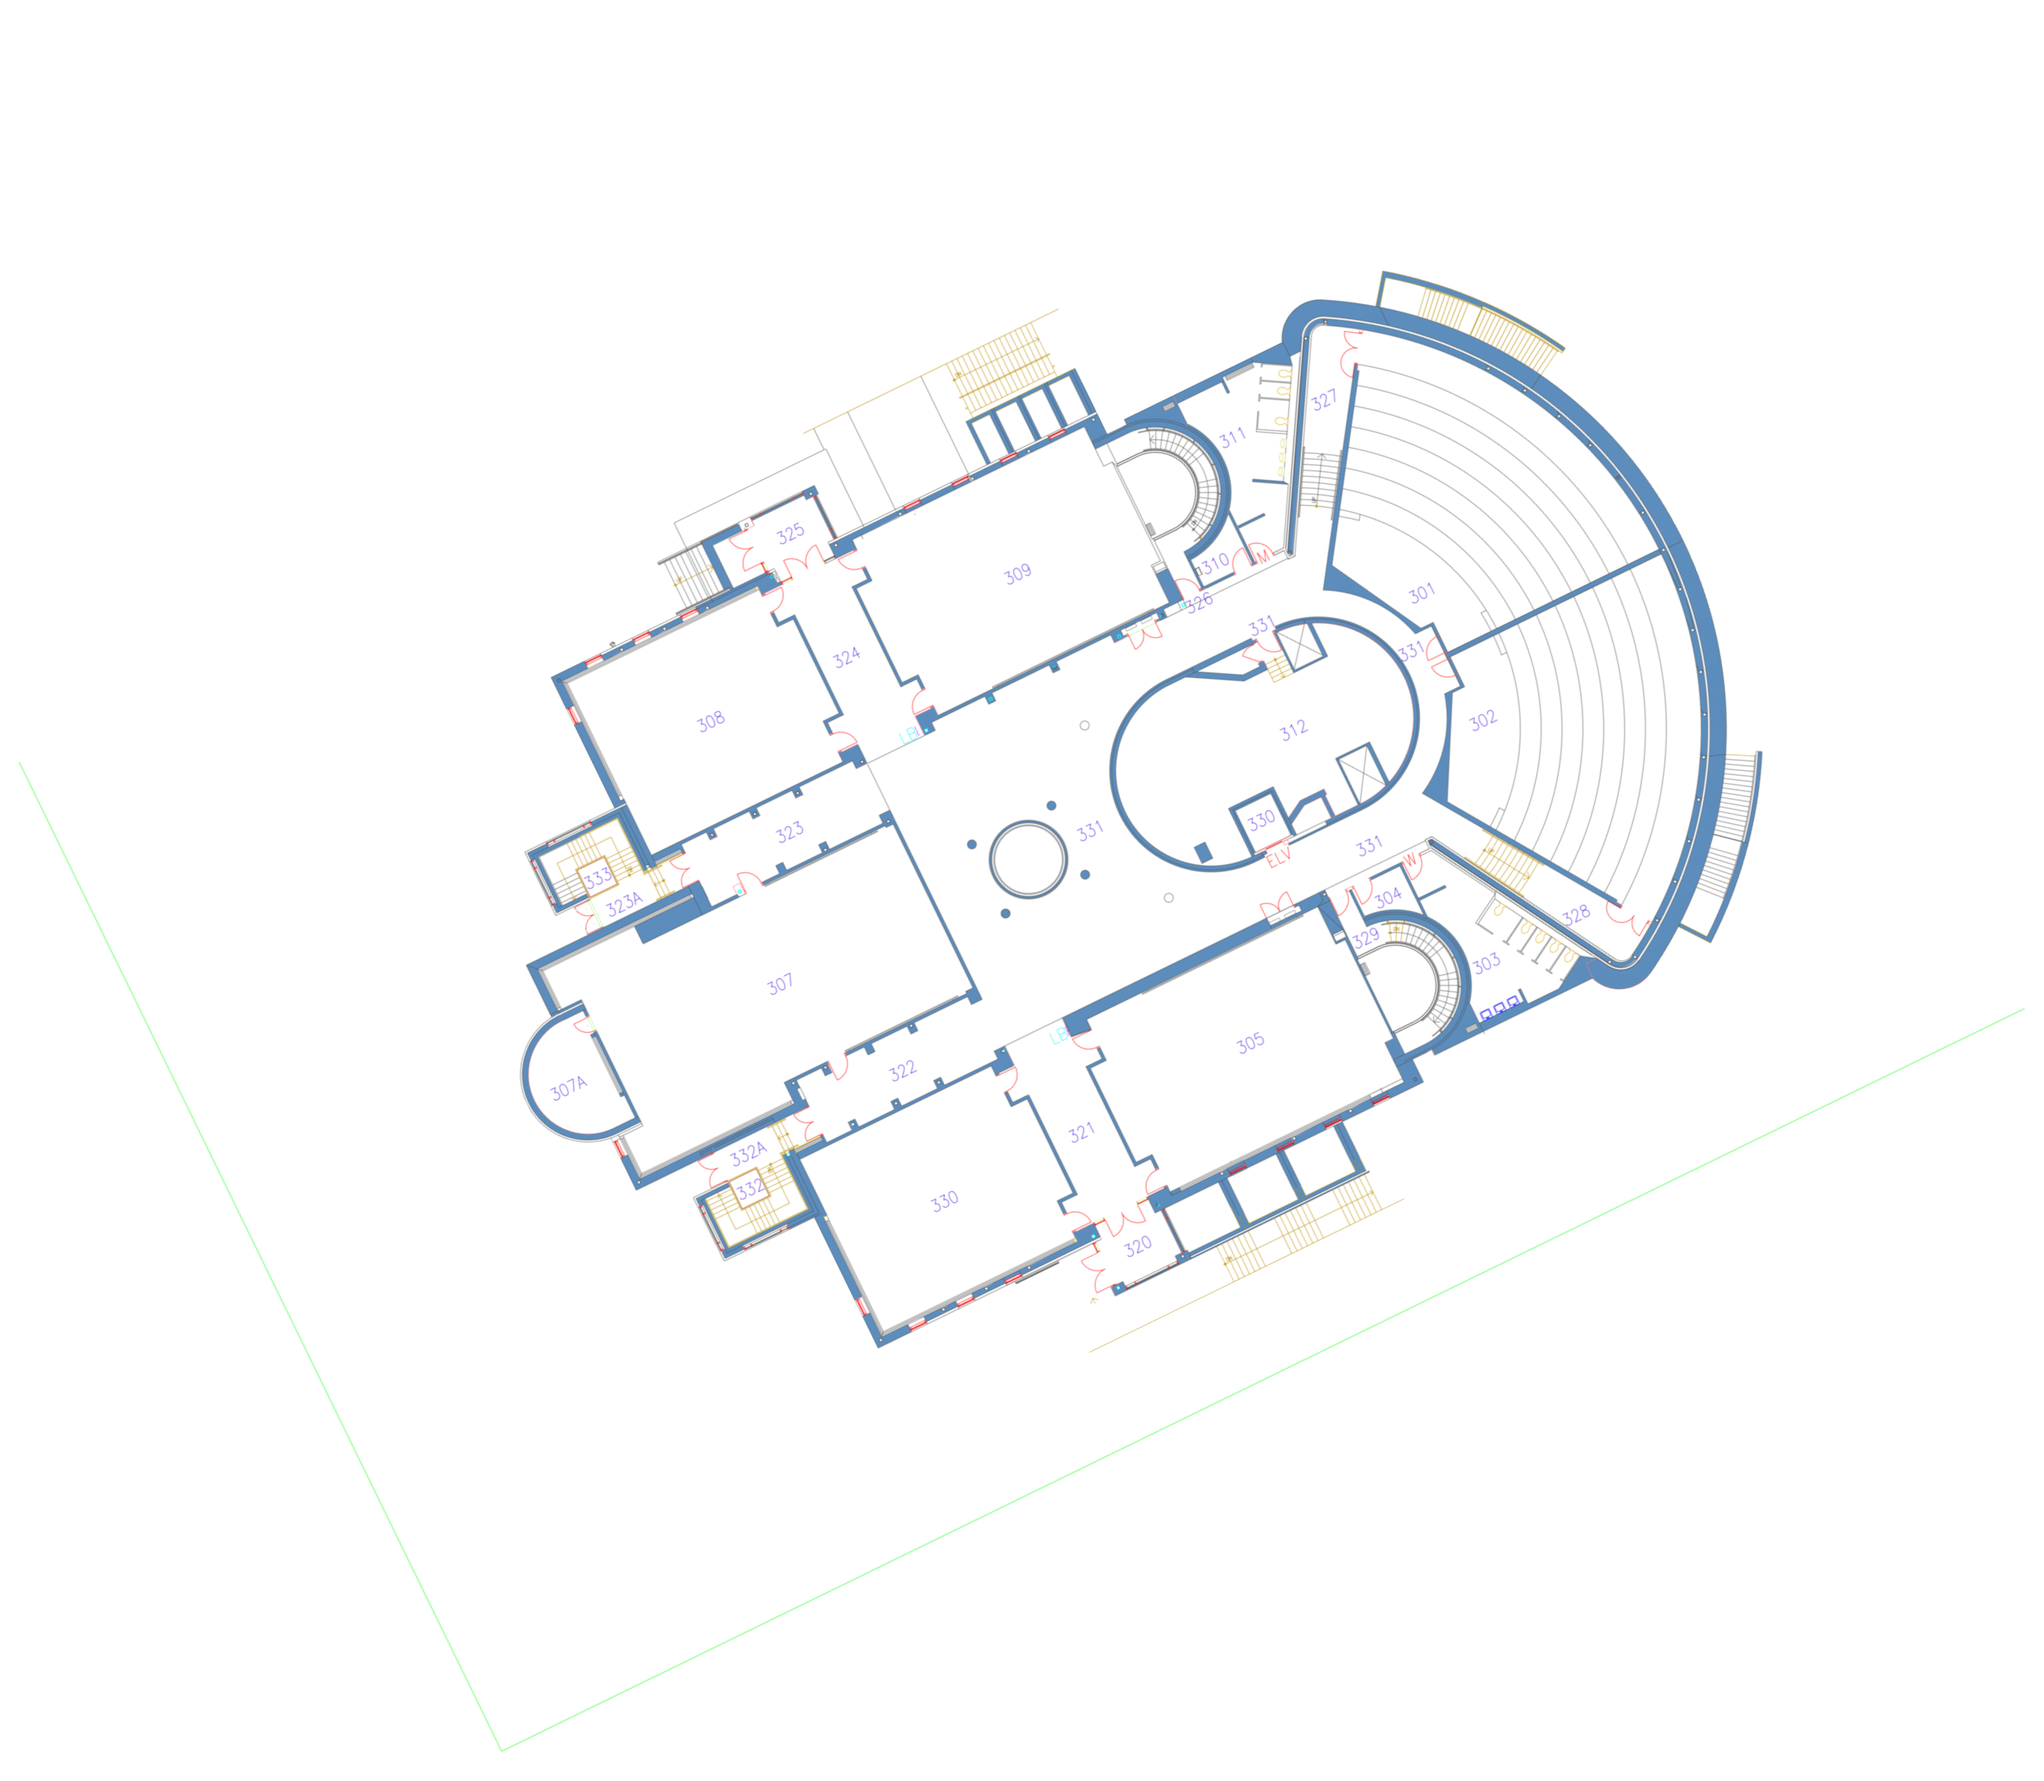
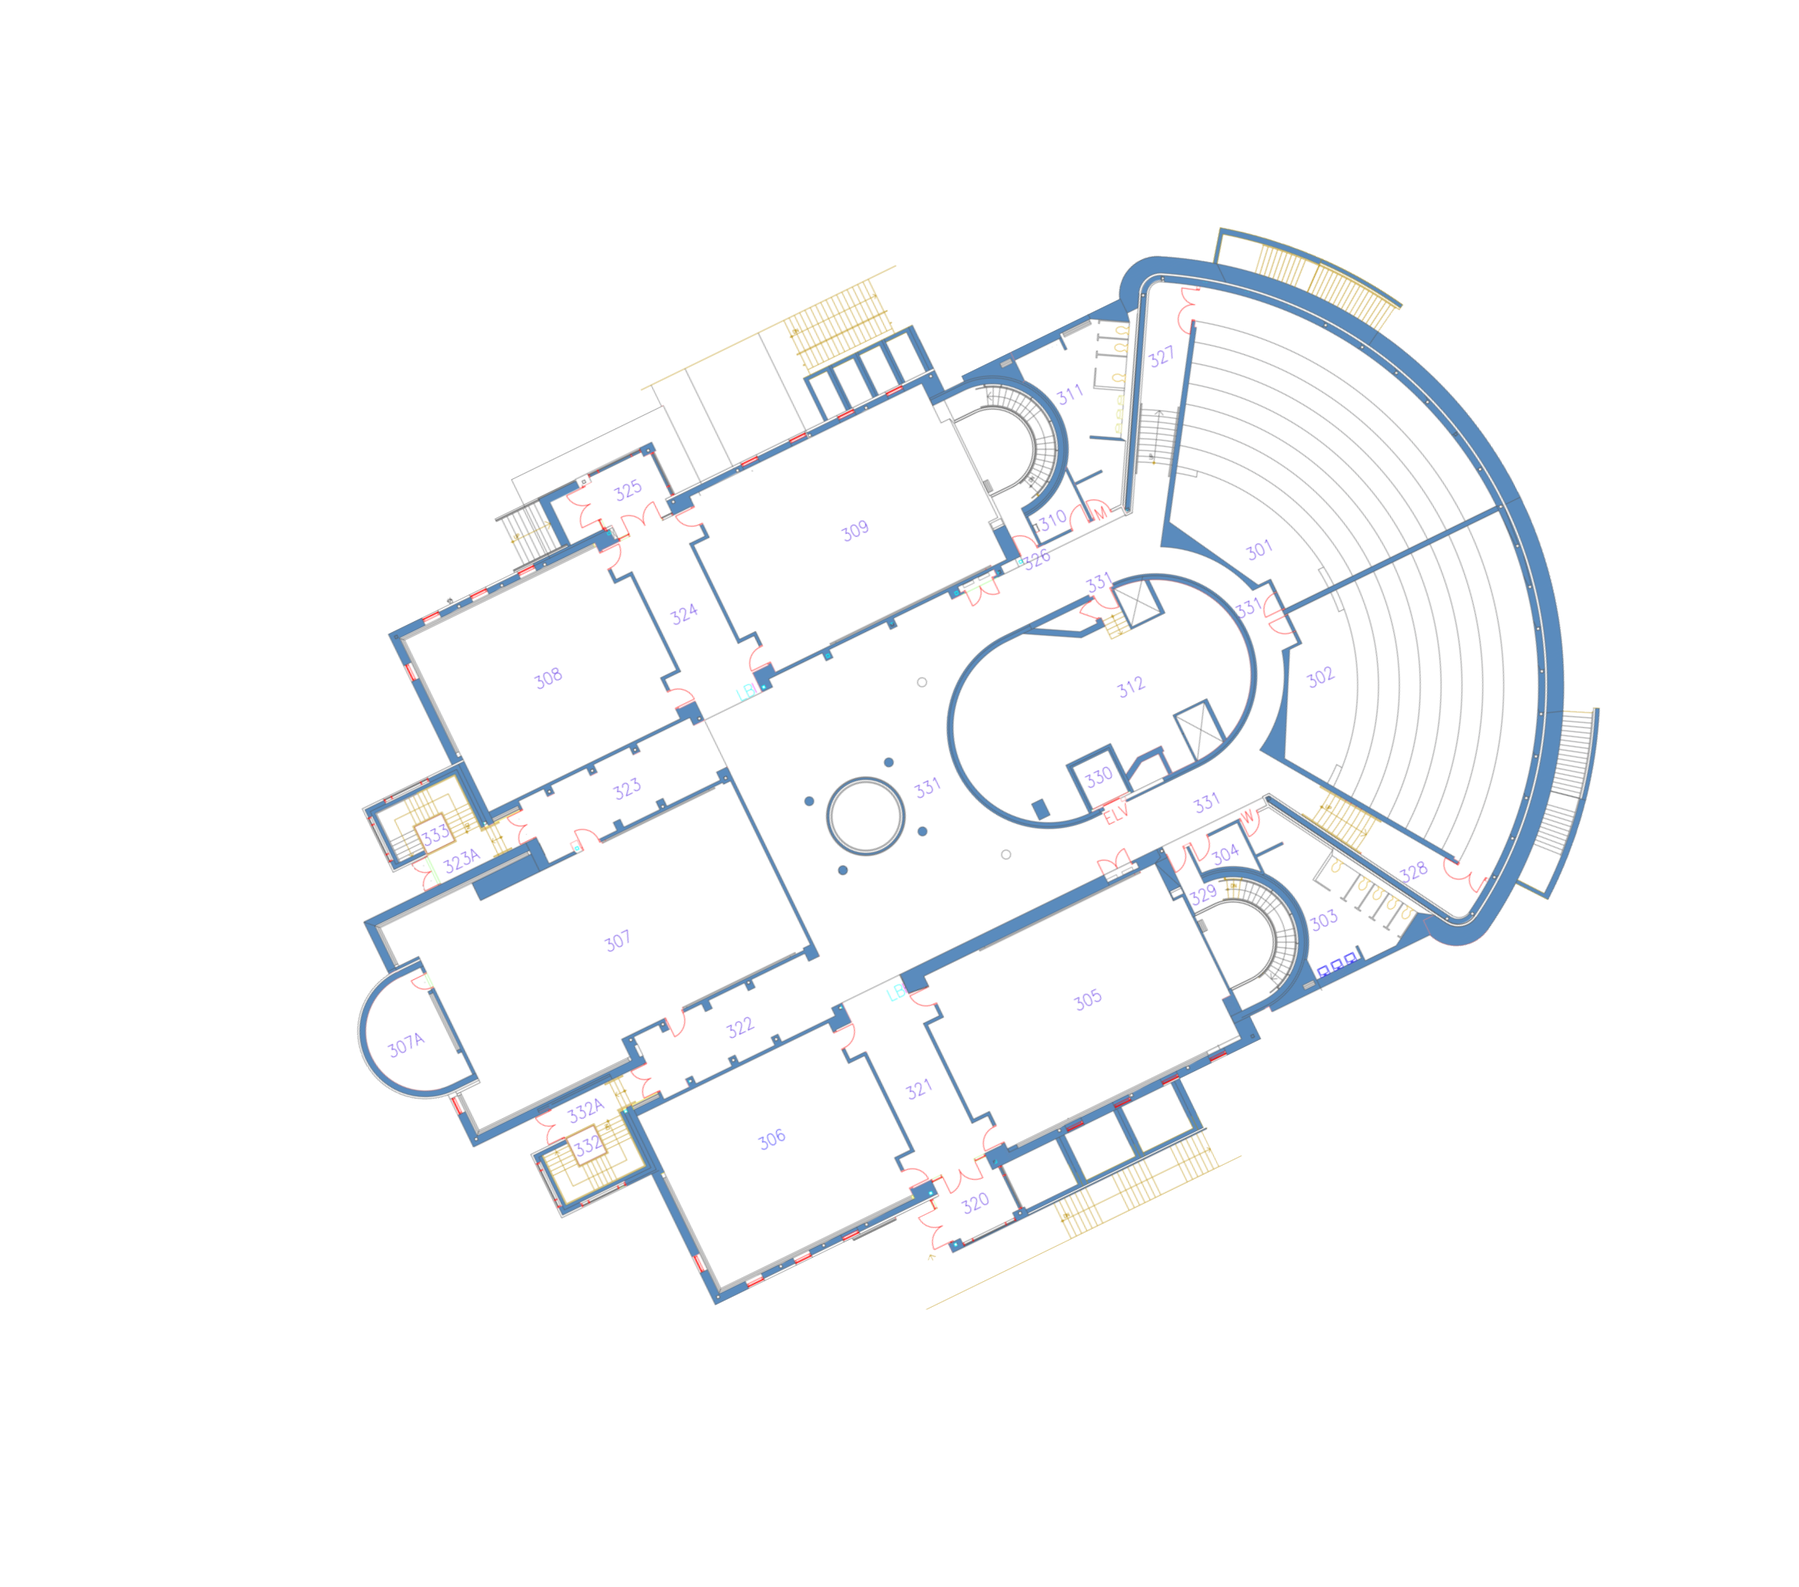
RCH3rd floor image overlay redone

Changed region(s): [[0.1873, 0.1239, 0.9055, 0.8363]]

diff --git a/client/temp_files/GoogleImageOverlay/UseThis_ImageOverlay.html b/client/temp_files/GoogleImageOverlay/UseThis_ImageOverlay.html
@@ -35,14 +35,14 @@
 
       //RCH 1st floor: sw(43.46999349599889, -80.54125972520075) ne(43.47064191555473, -80.54024546130745)
       //RCH 2nd floor: sw(43.469956511113, -80.54128386508188) ne(43.47063996900324, -80.5402374146804)
-      //RCH3rd floor: sw(43.4698708618167, -80.54143540989122) ne(43.470660407790774, -80.54018645270912)
+      //RCH3rd floor: sw(43.46993509880034, -80.54134957920274) ne(43.47064483538184, -80.54022668584435)
 
-      var swBound = new google.maps.LatLng(43.4699526179658, -80.54126777182773);
-      var neBound = new google.maps.LatLng(43.47062439658903, -80.54022132142632);
+      var swBound = new google.maps.LatLng(43.4698708618167, -80.54143540989122);
+      var neBound = new google.maps.LatLng(43.470660407790774, -80.54018645270912);
       var bounds = new google.maps.LatLngBounds(swBound, neBound);
 
        console.log(map);
-      var srcImage = '../client/images/Waterloo Floor Plans/RCH1_CAD.png';
+      var srcImage = '../../images/Waterloo Floor Plans/RCH3_CAD.png';
         
       overlay = new DebugOverlay(bounds, srcImage, map);
 
